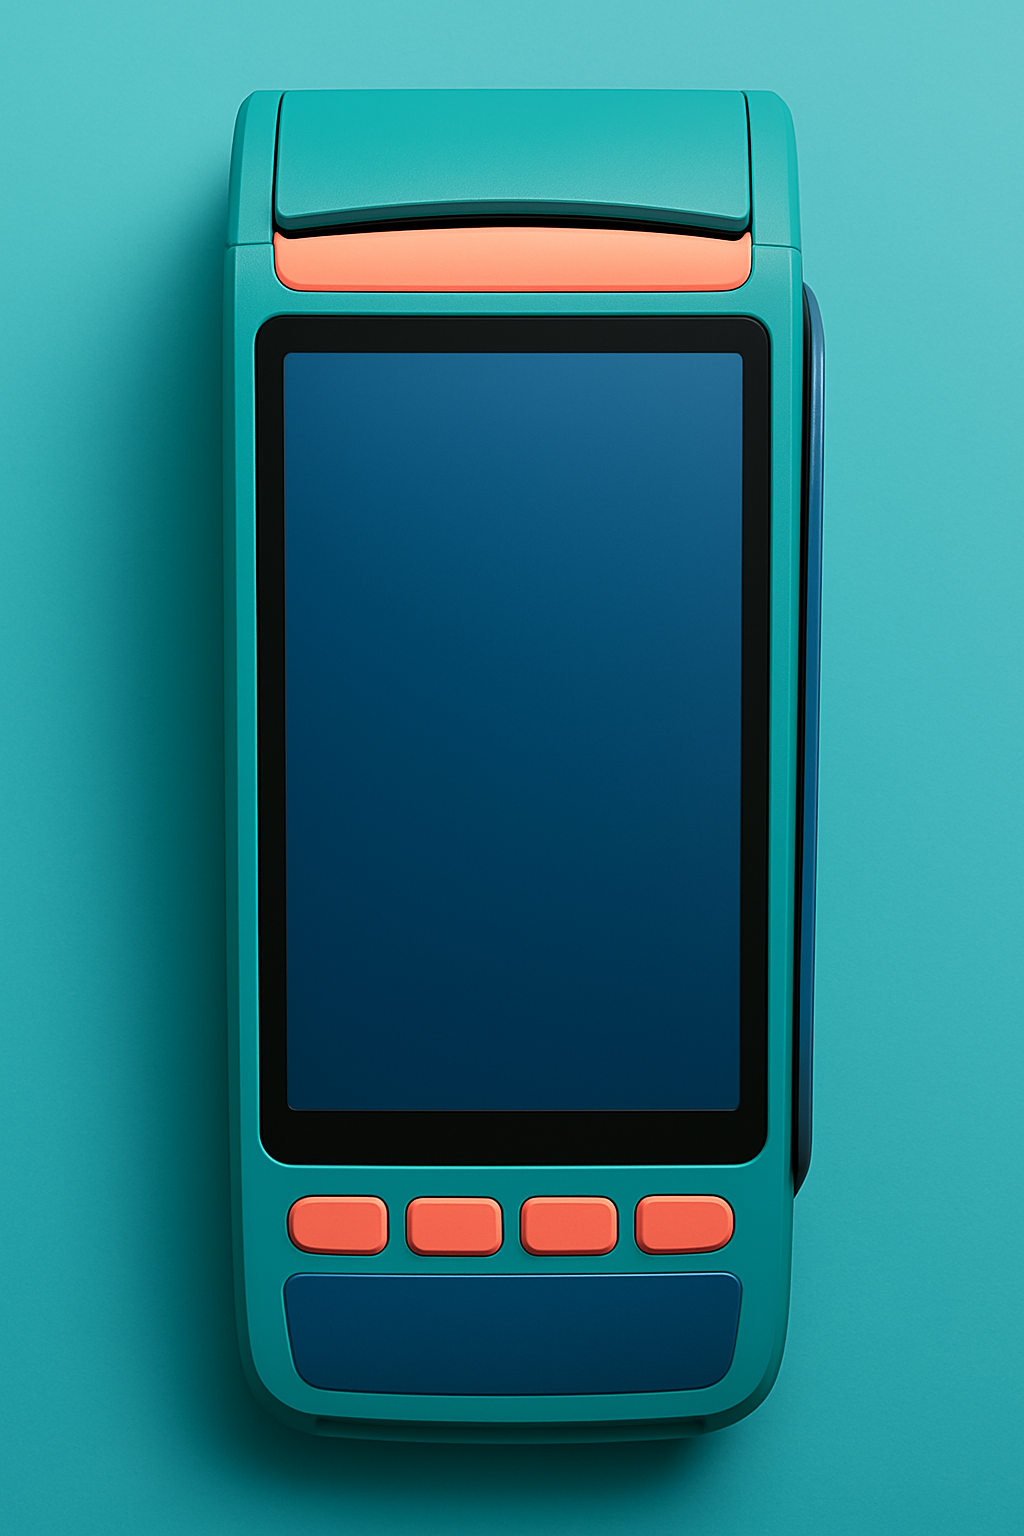
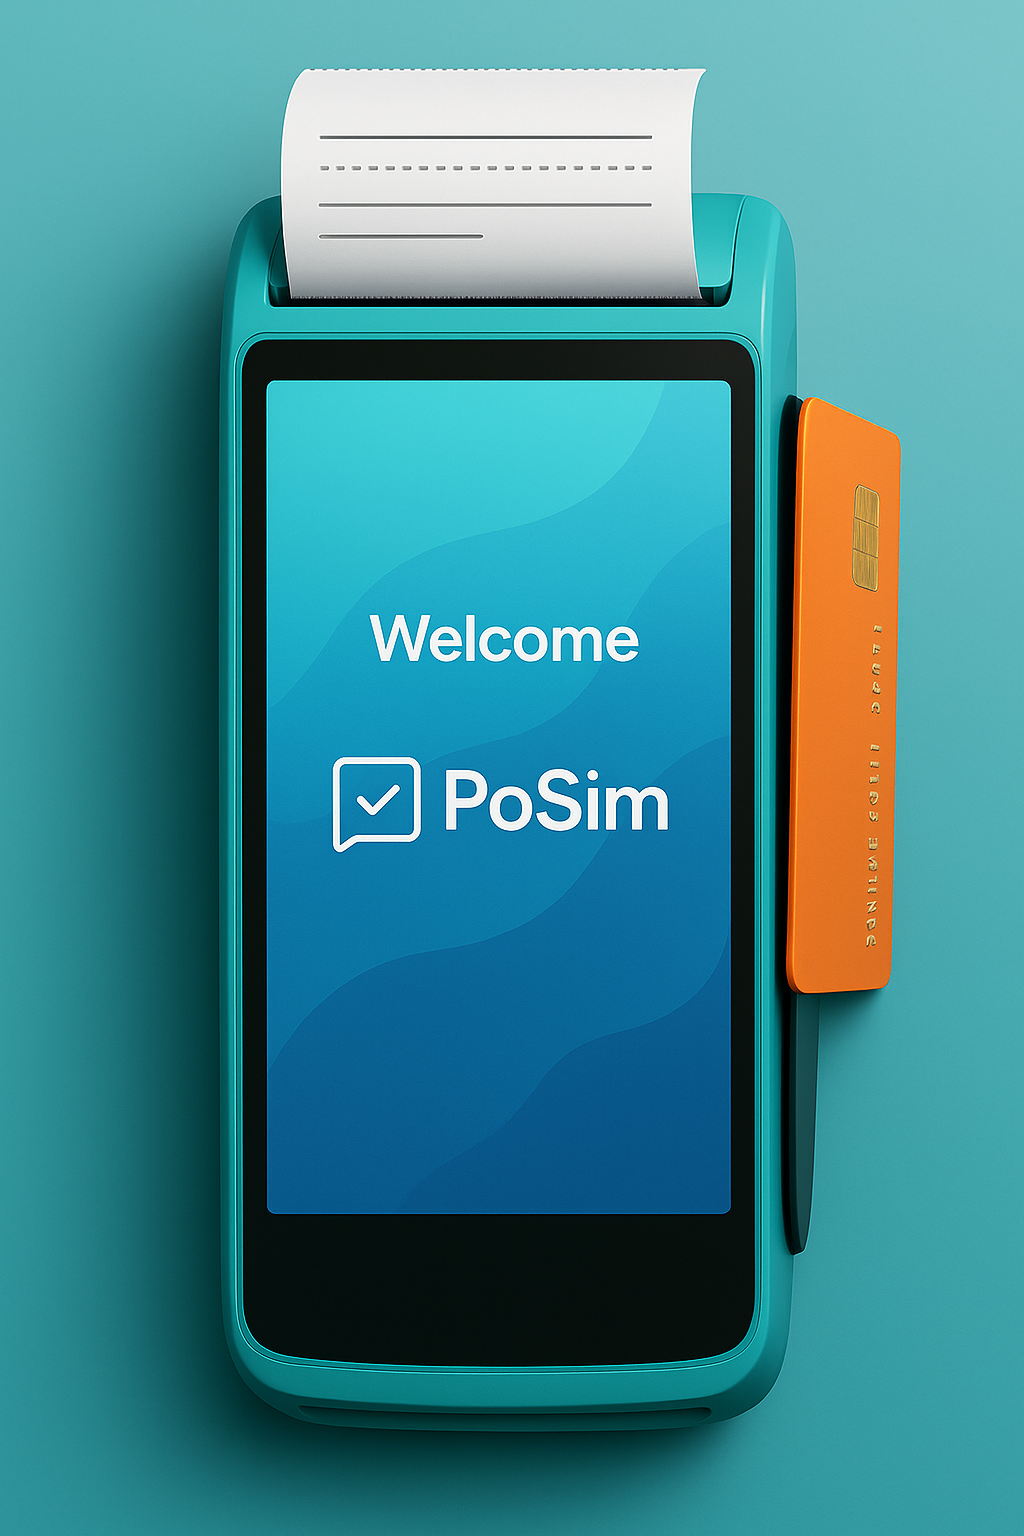
refactor(gui): change main screen image and bg

diff --git a/src/gui/gui.cpp b/src/gui/gui.cpp
@@ -63,7 +63,7 @@ void LVGL::createDisplay()
 {
     display = lv_img_create(scrImg);
     lv_img_set_src(display, ASSET_IMG_POS_DISP);
-    lv_obj_align(display, LV_ALIGN_CENTER, 2, -35);
+    lv_obj_align(display, LV_ALIGN_CENTER, -13, 27);
     lv_obj_set_style_radius(display, 10, LV_PART_MAIN);
 }
 
